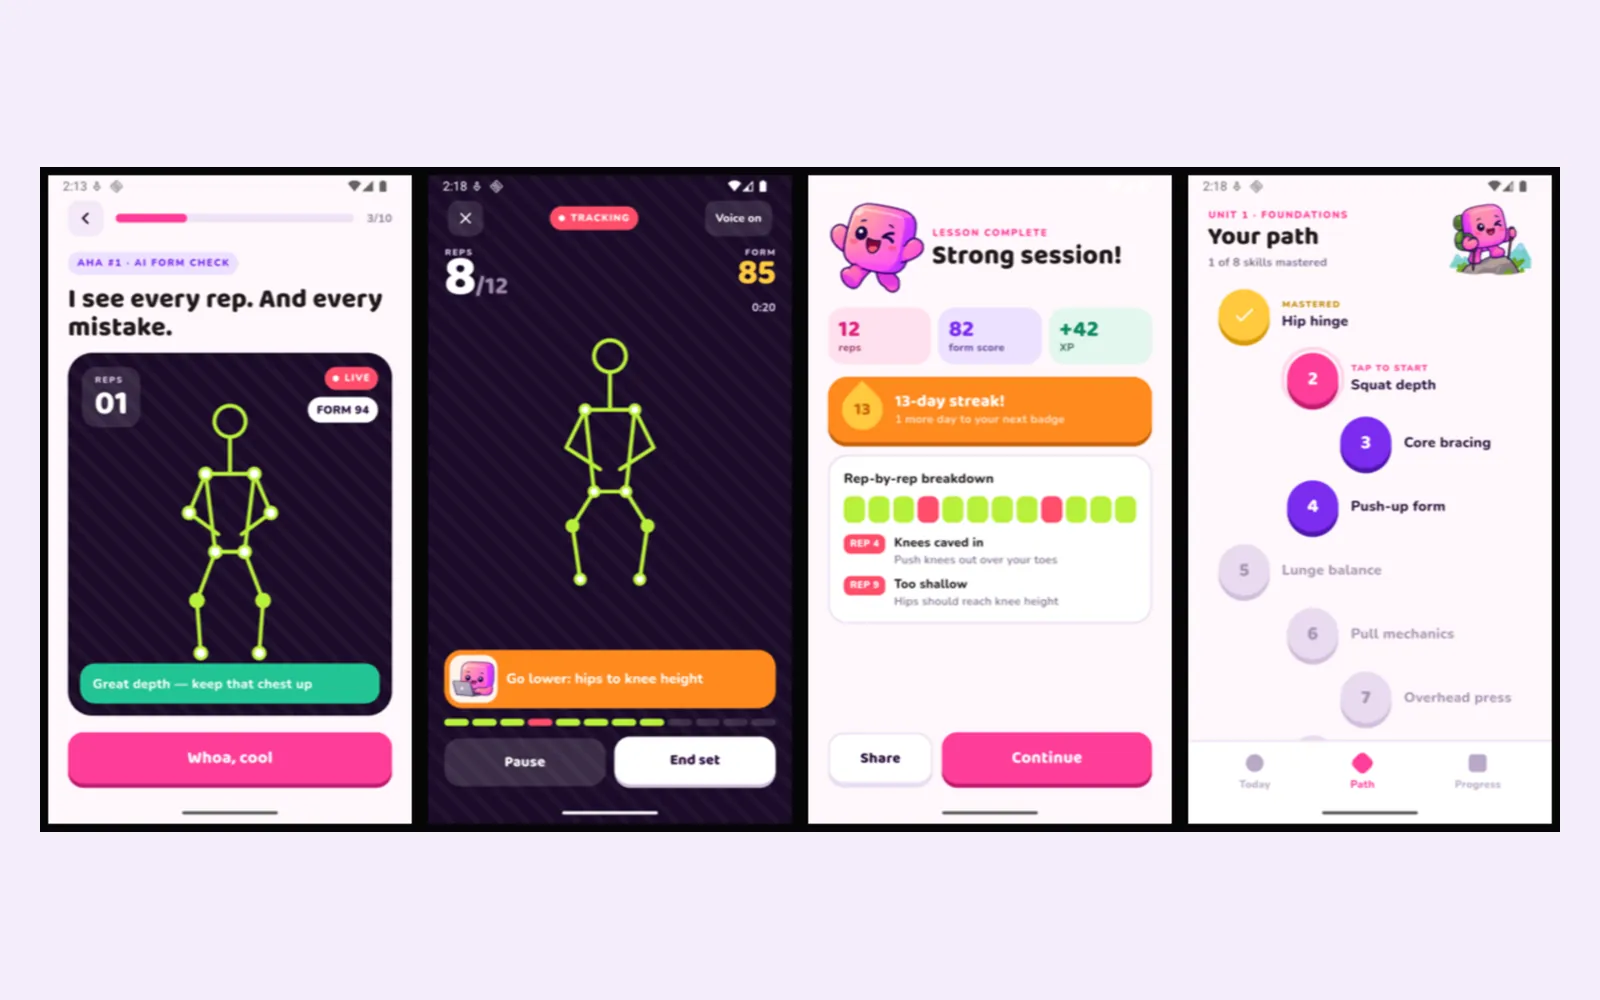
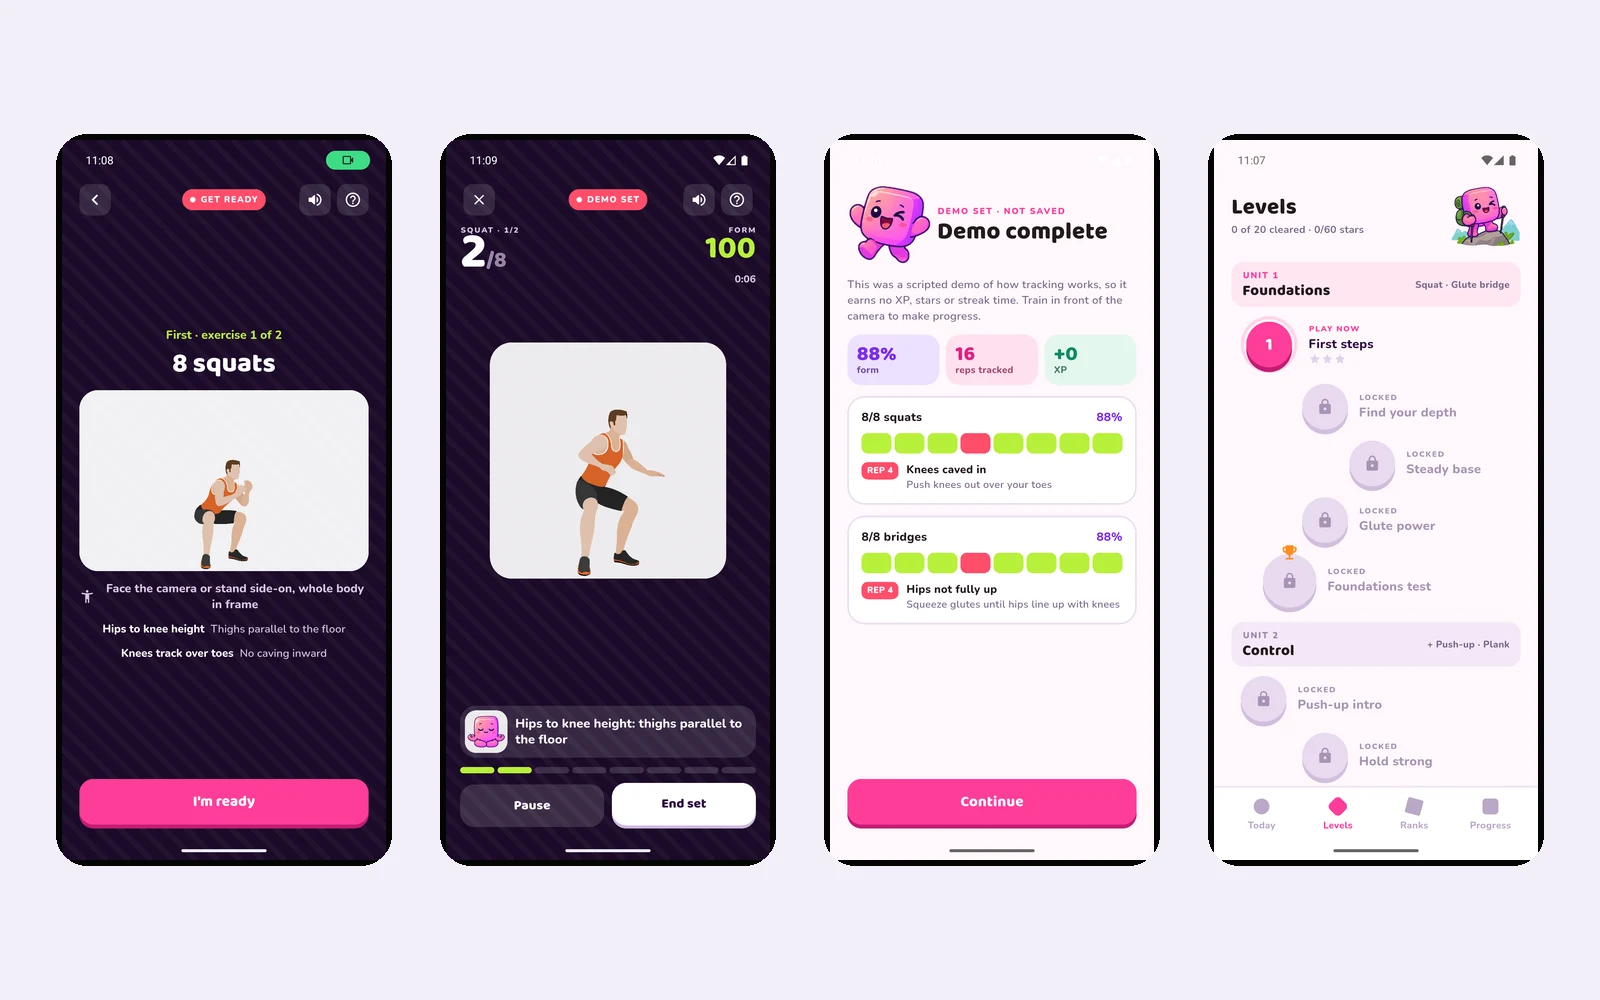
update gym guru case study to tofu

diff --git a/projects/gym-guru.html b/projects/gym-guru.html
@@ -4,8 +4,8 @@
   <meta charset="UTF-8" />
   <meta name="viewport" content="width=device-width, initial-scale=1.0" />
   <script>document.documentElement.classList.add('js')</script>
-  <title>Gym Guru: Five Minutes a Day, Better Form | Ankit Pokhrel</title>
-  <meta name="description" content="A Flutter app that teaches one movement skill a day and coaches every rep through the camera." />
+  <title>TOFU: An AI Trainer in Five Minutes a Day | Ankit Pokhrel</title>
+  <meta name="description" content="An Android app that counts reps and checks form through the phone camera, coaches by voice, and turns short daily workouts into a game with a global leaderboard." />
   <link rel="canonical" href="https://www.pokhrelankit.com.np/projects/gym-guru.html" />
   <meta name="author" content="Ankit Pokhrel" />
   <meta name="robots" content="index, follow, max-image-preview:large, max-snippet:-1" />
@@ -13,17 +13,17 @@
 
   <meta property="og:type" content="article" />
   <meta property="og:url" content="https://www.pokhrelankit.com.np/projects/gym-guru.html" />
-  <meta property="og:title" content="Gym Guru: Five Minutes a Day, Better Form | Ankit Pokhrel" />
-  <meta property="og:description" content="A Flutter app that teaches one movement skill a day and coaches every rep through the camera." />
+  <meta property="og:title" content="TOFU: An AI Trainer in Five Minutes a Day | Ankit Pokhrel" />
+  <meta property="og:description" content="An Android app that counts reps and checks form through the phone camera, coaches by voice, and turns short daily workouts into a game with a global leaderboard." />
   <meta property="og:image" content="https://www.pokhrelankit.com.np/assets/projects/gym-guru/og.jpg" />
   <meta property="og:image:width" content="1200" />
   <meta property="og:image:height" content="630" />
-  <meta property="og:image:alt" content="Gym Guru: Five Minutes a Day, Better Form" />
+  <meta property="og:image:alt" content="TOFU: An AI Trainer in Five Minutes a Day" />
   <meta property="og:site_name" content="Ankit Pokhrel" />
   <meta property="og:locale" content="en_US" />
   <meta name="twitter:card" content="summary_large_image" />
-  <meta name="twitter:title" content="Gym Guru: Five Minutes a Day, Better Form | Ankit Pokhrel" />
-  <meta name="twitter:description" content="A Flutter app that teaches one movement skill a day and coaches every rep through the camera." />
+  <meta name="twitter:title" content="TOFU: An AI Trainer in Five Minutes a Day | Ankit Pokhrel" />
+  <meta name="twitter:description" content="An Android app that counts reps and checks form through the phone camera, coaches by voice, and turns short daily workouts into a game with a global leaderboard." />
   <meta name="twitter:image" content="https://www.pokhrelankit.com.np/assets/projects/gym-guru/og.jpg" />
   <meta name="twitter:site" content="@_pokhrelankit" />
   <meta name="twitter:creator" content="@_pokhrelankit" />
@@ -36,7 +36,7 @@
         "@type": "WebPage",
         "@id": "https://www.pokhrelankit.com.np/projects/gym-guru.html#webpage",
         "url": "https://www.pokhrelankit.com.np/projects/gym-guru.html",
-        "name": "Gym Guru: Five Minutes a Day, Better Form | Ankit Pokhrel",
+        "name": "TOFU: An AI Trainer in Five Minutes a Day | Ankit Pokhrel",
         "isPartOf": {
           "@id": "https://www.pokhrelankit.com.np/#website"
         },
@@ -47,12 +47,12 @@
       {
         "@type": "CreativeWork",
         "@id": "https://www.pokhrelankit.com.np/projects/gym-guru.html#work",
-        "name": "Gym Guru: Five Minutes a Day, Better Form",
-        "description": "A Flutter app that teaches one movement skill a day and coaches every rep through the camera.",
+        "name": "TOFU: An AI Trainer in Five Minutes a Day",
+        "description": "An Android app that counts reps and checks form through the phone camera, coaches by voice, and turns short daily workouts into a game with a global leaderboard.",
         "url": "https://www.pokhrelankit.com.np/projects/gym-guru.html",
         "image": "https://www.pokhrelankit.com.np/assets/projects/gym-guru/og.jpg",
         "dateCreated": "2026",
-        "keywords": "Flutter, Dart, CustomPainter, GitHub Actions CI",
+        "keywords": "Flutter, Dart, Google ML Kit pose detection, Firebase Auth + Firestore, Lottie, flutter_tts, GitHub Actions CI",
         "author": {
           "@id": "https://www.pokhrelankit.com.np/#ankit"
         }
@@ -75,7 +75,7 @@
           {
             "@type": "ListItem",
             "position": 3,
-            "name": "Gym Guru: Five Minutes a Day, Better Form",
+            "name": "TOFU: An AI Trainer in Five Minutes a Day",
             "item": "https://www.pokhrelankit.com.np/projects/gym-guru.html"
           }
         ]
@@ -119,51 +119,70 @@
   <main id="main" class="cs article">
     <a class="art-back" href="../projects.html">← all projects</a>
     <header class="art-head">
-      <div class="art-kicker">mobile app · flutter</div>
-      <h1>Gym Guru: Five Minutes a Day, Better Form</h1>
-      <p class="art-sub">A Flutter app that teaches one movement skill a day and coaches every rep through the camera.</p>
+      <div class="art-kicker">mobile app · on-device pose tracking</div>
+      <h1>TOFU: An AI Trainer in Five Minutes a Day</h1>
+      <p class="art-sub">An Android app that counts reps and checks form through the phone camera, coaches by voice, and turns short daily workouts into a game with a global leaderboard.</p>
       <div class="byline">
         <img src="../assets/profile.webp" width="44" height="44" alt="" />
         <div>
           <div class="by-name">Ankit Pokhrel</div>
-          <div class="by-meta">1 min read<span class="by-dot">·</span>2026</div>
+          <div class="by-meta">2 min read<span class="by-dot">·</span>2026</div>
         </div>
       </div>
     </header>
 
     <figure class="cs-hero">
-      <button class="zoom" type="button" data-full="../assets/projects/gym-guru/cover.webp" aria-label="Enlarge image: Four Gym Guru phone screens: form check, live set, results and skill path">
-        <img src="../assets/projects/gym-guru/cover.webp" width="1600" height="1000" alt="Four Gym Guru phone screens: form check, live set, results and skill path" fetchpriority="high" decoding="async" />
+      <button class="zoom" type="button" data-full="../assets/projects/gym-guru/cover.webp" aria-label="Enlarge image: Four TOFU phone screens: get ready with an exercise animation, a tracked set, results and the level path">
+        <img src="../assets/projects/gym-guru/cover.webp" width="1600" height="1000" alt="Four TOFU phone screens: get ready with an exercise animation, a tracked set, results and the level path" fetchpriority="high" decoding="async" />
       </button>
-      <figcaption>Form check, a live tracked set, results, and the skill path.</figcaption>
+      <figcaption>Get ready, a tracked set, rep-by-rep results, and the 20-level path.</figcaption>
     </figure>
 
     <article class="art-body">
         <h2>The idea</h2>
-        <p>Most people quit training because sessions are long and nobody tells them their form is off. Gym Guru turns training into a short daily lesson: <b>learn</b> one skill like squat depth from a demo and three cues, <b>practise</b> a tracked set of 12 reps in front of the phone camera, then <b>review</b> a form score with errors flagged on the exact rep they happened.</p>
-        <h2>Where it stands</h2>
-        <p>It's a UI-complete prototype. Navigation, state and the whole lesson loop work. The camera feed and pose data are simulated: the skeleton is drawn from a depth curve, and scripted mistakes on rep 4 (knees cave in) and rep 9 (too shallow) exercise the coaching and results screens end to end.</p>
+        <p>Most people quit training because sessions run long and nobody checks their form. TOFU keeps workouts to about five minutes and gives feedback on every rep: pick a level, train in front of the phone, and earn stars, XP and a place on the leaderboard.</p>
+        <h2>The workout flow</h2>
+        <p>Every exercise gets its own short sequence: an <b>animated demo</b> with 2-3 cues, an <b>I'm ready</b> tap, a <b>position check</b>, a countdown, then tracking. Squats are done standing and bridges lying side-on, so the position check runs before each exercise, not once per workout. A help button replays the demo and pauses the set.</p>
         <figure class="cs-fig">
-          <button class="zoom" type="button" data-full="../assets/projects/gym-guru/screens.webp" aria-label="Enlarge image: Five Gym Guru screens: goals, plan, today, progress and share">
-            <img src="../assets/projects/gym-guru/screens.webp" width="1800" height="630" alt="Five Gym Guru screens: goals, plan, today, progress and share" loading="lazy" decoding="async" />
+          <button class="zoom" type="button" data-full="../assets/projects/gym-guru/workout.webp" aria-label="Enlarge image: Five TOFU workout screens: workout overview, how-to sheet, position check, next exercise and a tracked glute bridge">
+            <img src="../assets/projects/gym-guru/workout.webp" width="1800" height="630" alt="Five TOFU workout screens: workout overview, how-to sheet, position check, next exercise and a tracked glute bridge" loading="lazy" decoding="async" />
           </button>
-          <figcaption>Onboarding goals, the personal plan, today, progress and share cards.</figcaption>
+          <figcaption>Workout overview, the how-to sheet, the position check, the next exercise, and a tracked bridge.</figcaption>
         </figure>
-        <h2>Decisions</h2>
+        <h2>Tracking</h2>
         <ul>
-          <li>Each flow owns one ChangeNotifier, so there are no state-library dependencies while the data model settles.</li>
-          <li>Fonts ship with the app and runtime font fetching is off, so it renders correctly with no network.</li>
-          <li>Next: real pose estimation on device (ML Kit or MediaPipe), local persistence, then accounts.</li>
+          <li><b>Google ML Kit</b> pose detection runs on the front camera. Frames are analysed in memory and never stored or uploaded.</li>
+          <li>Each exercise has its own pure-Dart analyzer: squat depth from how far the hips drop (calibrated to your standing pose), elbow and knee angles for push-ups and lunges, hip angle for bridges, graded 5-second segments for planks, arm and leg range for jumping jacks.</li>
+          <li>A <b>setup gate</b> waits until your body is in frame, clearly visible and still before counting. If it can't see you for 8 seconds it says what to fix.</li>
+          <li>I tuned the analyzers on real workout clips from a public Kaggle dataset (MediaPipe poses replayed through the Dart code). That moved thresholds, made reps count only from a proper start, and added a minimum body size after a ceiling fan was detected as a person.</li>
         </ul>
+        <h2>Coaching without chatter</h2>
+        <p>Speech is saved for moments that matter: each new exercise, a form mistake, "three more", and help when it can't see you. Clean reps and the countdown are short sounds I synthesised for the app. The same line repeats at most every 8 seconds and any two lines are at least 3.5 seconds apart. Voice and sounds can each be switched off.</p>
+        <h2>Game and backend</h2>
+        <ul>
+          <li>Google sign-in with <b>Firebase Auth</b>. Setup asks only what the app uses: nickname, goal, experience, daily minutes and pain limits.</li>
+          <li>Stars from form score, XP with first-clear and boss bonuses, 6 ranks, 9 achievements, a daily-goal streak, and streak freezes earned with XP.</li>
+          <li>Knee or lower-back limits swap or ease exercises; the goal and your most common mistake pick a daily drill.</li>
+          <li>A weekly and all-time <b>global leaderboard</b> on Firestore. Without Cloud Functions the app writes its own totals, so security rules check every write: only you write your row, XP never drops, and one write adds at most one workout's XP.</li>
+          <li>Cache-first startup: Firestore's offline cache shows your progress instantly and syncs in the background.</li>
+        </ul>
+        <figure class="cs-fig">
+          <button class="zoom" type="button" data-full="../assets/projects/gym-guru/screens.webp" aria-label="Enlarge image: Five TOFU screens: welcome, today, leaderboard, progress and profile">
+            <img src="../assets/projects/gym-guru/screens.webp" width="1800" height="630" alt="Five TOFU screens: welcome, today, leaderboard, progress and profile" loading="lazy" decoding="async" />
+          </button>
+          <figcaption>Welcome, today, the leaderboard, progress and profile with voice and sound settings.</figcaption>
+        </figure>
+        <h2>Honest limits</h2>
+        <p>Lunge and jumping-jack tracking is only tested on synthetic poses, since I found no matching real clips. Leaderboard scores are rule-checked, not validated on a server. Android only for now; iOS comes later.</p>
     </article>
 
     <div class="art-foot">
       <ul class="art-notes">
-          <li><span>role</span> solo</li>
-          <li><span>status</span> UI-complete prototype; on-device pose estimation is next</li>
-          <li><span>timeline</span> Oct 2026</li>
+          <li><span>role</span> solo: design, app, tracking and backend</li>
+          <li><span>status</span> working Android MVP, installable APK</li>
+          <li><span>timeline</span> Oct - Nov 2026</li>
         </ul>
-      <ul class="art-tags"><li>Flutter</li><li>Dart</li><li>CustomPainter</li><li>GitHub Actions CI</li></ul>
+      <ul class="art-tags"><li>Flutter</li><li>Dart</li><li>Google ML Kit pose detection</li><li>Firebase Auth + Firestore</li><li>Lottie</li><li>flutter_tts</li><li>GitHub Actions CI</li></ul>
     </div>
 
     <div class="art-more" role="navigation" aria-label="more case studies">

diff --git a/projects-data.js b/projects-data.js
@@ -486,49 +486,73 @@ const CASE_STUDIES = [
   {
     slug: "gym-guru",
     group: "builds",
-    title: "Gym Guru: Five Minutes a Day, Better Form",
-    kicker: "mobile app · flutter",
+    title: "TOFU: An AI Trainer in Five Minutes a Day",
+    kicker: "mobile app · on-device pose tracking",
     year: "2026",
     summary:
-      "A Flutter app that teaches one movement skill a day and coaches every rep through the camera.",
+      "An Android app that counts reps and checks form through the phone camera, coaches by voice, and turns short daily workouts into a game with a global leaderboard.",
     stats: [
-      ["12", "reps in each tracked set"],
-      ["10", "onboarding steps, ending in a 30-day plan"],
-      ["5 min", "a day"],
+      ["6", "exercises, each with its own on-device form checks"],
+      ["20", "levels in 4 units, each ending in a boss"],
+      ["79", "automated tests, plus 27 bugs fixed in emulator passes"],
     ],
     facts: [
-      ["role", "solo"],
-      ["status", "UI-complete prototype; on-device pose estimation is next"],
-      ["timeline", "Oct 2026"],
-      ["stack", "Flutter, Dart, CustomPainter, GitHub Actions CI"],
+      ["role", "solo: design, app, tracking and backend"],
+      ["status", "working Android MVP, installable APK"],
+      ["timeline", "Oct - Nov 2026"],
+      ["stack", "Flutter, Dart, Google ML Kit pose detection, Firebase Auth + Firestore, Lottie, flutter_tts, GitHub Actions CI"],
     ],
     links: [],
     hero: {
       img: "cover.webp",
-      alt: "Four Gym Guru phone screens: form check, live set, results and skill path",
-      caption: "Form check, a live tracked set, results, and the skill path.",
+      alt: "Four TOFU phone screens: get ready with an exercise animation, a tracked set, results and the level path",
+      caption: "Get ready, a tracked set, rep-by-rep results, and the 20-level path.",
     },
     body: [
       { h: "The idea" },
       {
-        p: "Most people quit training because sessions are long and nobody tells them their form is off. Gym Guru turns training into a short daily lesson: <b>learn</b> one skill like squat depth from a demo and three cues, <b>practise</b> a tracked set of 12 reps in front of the phone camera, then <b>review</b> a form score with errors flagged on the exact rep they happened.",
+        p: "Most people quit training because sessions run long and nobody checks their form. TOFU keeps workouts to about five minutes and gives feedback on every rep: pick a level, train in front of the phone, and earn stars, XP and a place on the leaderboard.",
       },
-      { h: "Where it stands" },
+      { h: "The workout flow" },
       {
-        p: "It's a UI-complete prototype. Navigation, state and the whole lesson loop work. The camera feed and pose data are simulated: the skeleton is drawn from a depth curve, and scripted mistakes on rep 4 (knees cave in) and rep 9 (too shallow) exercise the coaching and results screens end to end.",
+        p: "Every exercise gets its own short sequence: an <b>animated demo</b> with 2-3 cues, an <b>I'm ready</b> tap, a <b>position check</b>, a countdown, then tracking. Squats are done standing and bridges lying side-on, so the position check runs before each exercise, not once per workout. A help button replays the demo and pauses the set.",
+      },
+      {
+        fig: "workout.webp",
+        alt: "Five TOFU workout screens: workout overview, how-to sheet, position check, next exercise and a tracked glute bridge",
+        caption: "Workout overview, the how-to sheet, the position check, the next exercise, and a tracked bridge.",
+      },
+      { h: "Tracking" },
+      {
+        list: [
+          "<b>Google ML Kit</b> pose detection runs on the front camera. Frames are analysed in memory and never stored or uploaded.",
+          "Each exercise has its own pure-Dart analyzer: squat depth from how far the hips drop (calibrated to your standing pose), elbow and knee angles for push-ups and lunges, hip angle for bridges, graded 5-second segments for planks, arm and leg range for jumping jacks.",
+          "A <b>setup gate</b> waits until your body is in frame, clearly visible and still before counting. If it can't see you for 8 seconds it says what to fix.",
+          "I tuned the analyzers on real workout clips from a public Kaggle dataset (MediaPipe poses replayed through the Dart code). That moved thresholds, made reps count only from a proper start, and added a minimum body size after a ceiling fan was detected as a person.",
+        ],
+      },
+      { h: "Coaching without chatter" },
+      {
+        p: "Speech is saved for moments that matter: each new exercise, a form mistake, \"three more\", and help when it can't see you. Clean reps and the countdown are short sounds I synthesised for the app. The same line repeats at most every 8 seconds and any two lines are at least 3.5 seconds apart. Voice and sounds can each be switched off.",
+      },
+      { h: "Game and backend" },
+      {
+        list: [
+          "Google sign-in with <b>Firebase Auth</b>. Setup asks only what the app uses: nickname, goal, experience, daily minutes and pain limits.",
+          "Stars from form score, XP with first-clear and boss bonuses, 6 ranks, 9 achievements, a daily-goal streak, and streak freezes earned with XP.",
+          "Knee or lower-back limits swap or ease exercises; the goal and your most common mistake pick a daily drill.",
+          "A weekly and all-time <b>global leaderboard</b> on Firestore. Without Cloud Functions the app writes its own totals, so security rules check every write: only you write your row, XP never drops, and one write adds at most one workout's XP.",
+          "Cache-first startup: Firestore's offline cache shows your progress instantly and syncs in the background.",
+        ],
       },
       {
         fig: "screens.webp",
-        alt: "Five Gym Guru screens: goals, plan, today, progress and share",
-        caption: "Onboarding goals, the personal plan, today, progress and share cards.",
+        alt: "Five TOFU screens: welcome, today, leaderboard, progress and profile",
+        caption: "Welcome, today, the leaderboard, progress and profile with voice and sound settings.",
       },
-      { h: "Decisions" },
+      { h: "Honest limits" },
       {
-        list: [
-          "Each flow owns one ChangeNotifier, so there are no state-library dependencies while the data model settles.",
-          "Fonts ship with the app and runtime font fetching is off, so it renders correctly with no network.",
-          "Next: real pose estimation on device (ML Kit or MediaPipe), local persistence, then accounts.",
-        ],
+        p: "Lunge and jumping-jack tracking is only tested on synthetic poses, since I found no matching real clips. Leaderboard scores are rule-checked, not validated on a server. Android only for now; iOS comes later.",
       },
     ],
   },

diff --git a/projects.html b/projects.html
@@ -98,7 +98,7 @@
           {
             "@type": "ListItem",
             "position": 8,
-            "name": "Gym Guru: Five Minutes a Day, Better Form",
+            "name": "TOFU: An AI Trainer in Five Minutes a Day",
             "url": "https://www.pokhrelankit.com.np/projects/gym-guru.html"
           },
           {
@@ -279,9 +279,9 @@
           <img src="./assets/projects/gym-guru/cover.webp" width="1600" height="1000" alt="" loading="lazy" decoding="async" />
         </div>
         <div class="proj-body">
-          <div class="proj-kicker">mobile app · flutter · 2026</div>
-          <h3 class="proj-title"><a href="./projects/gym-guru.html">Gym Guru: Five Minutes a Day, Better Form</a></h3>
-          <p class="proj-sum">A Flutter app that teaches one movement skill a day and coaches every rep through the camera.</p>
+          <div class="proj-kicker">mobile app · on-device pose tracking · 2026</div>
+          <h3 class="proj-title"><a href="./projects/gym-guru.html">TOFU: An AI Trainer in Five Minutes a Day</a></h3>
+          <p class="proj-sum">An Android app that counts reps and checks form through the phone camera, coaches by voice, and turns short daily workouts into a game with a global leaderboard.</p>
           
           <span class="proj-cta" aria-hidden="true">read the case study <span class="arr">→</span></span>
         </div>

diff --git a/projects/padel.html b/projects/padel.html
@@ -172,7 +172,7 @@
 
     <div class="art-more" role="navigation" aria-label="more case studies">
       <div class="art-more-label">More from Ankit</div>
-      <a href="gym-guru.html"><span>previous</span>Gym Guru: Five Minutes a Day, Better Form</a>
+      <a href="gym-guru.html"><span>previous</span>TOFU: An AI Trainer in Five Minutes a Day</a>
       <a href="ndn-anomaly-detection.html"><span>next</span>Catching Attacks in Named Data Networking</a>
     </div>
   </main>

diff --git a/projects/kanun-sathi.html b/projects/kanun-sathi.html
@@ -171,7 +171,7 @@
     <div class="art-more" role="navigation" aria-label="more case studies">
       <div class="art-more-label">More from Ankit</div>
       <a href="voice-bridge.html"><span>previous</span>Voice Bridge: Calls Without a Language Barrier</a>
-      <a href="gym-guru.html"><span>next</span>Gym Guru: Five Minutes a Day, Better Form</a>
+      <a href="gym-guru.html"><span>next</span>TOFU: An AI Trainer in Five Minutes a Day</a>
     </div>
   </main>
 
